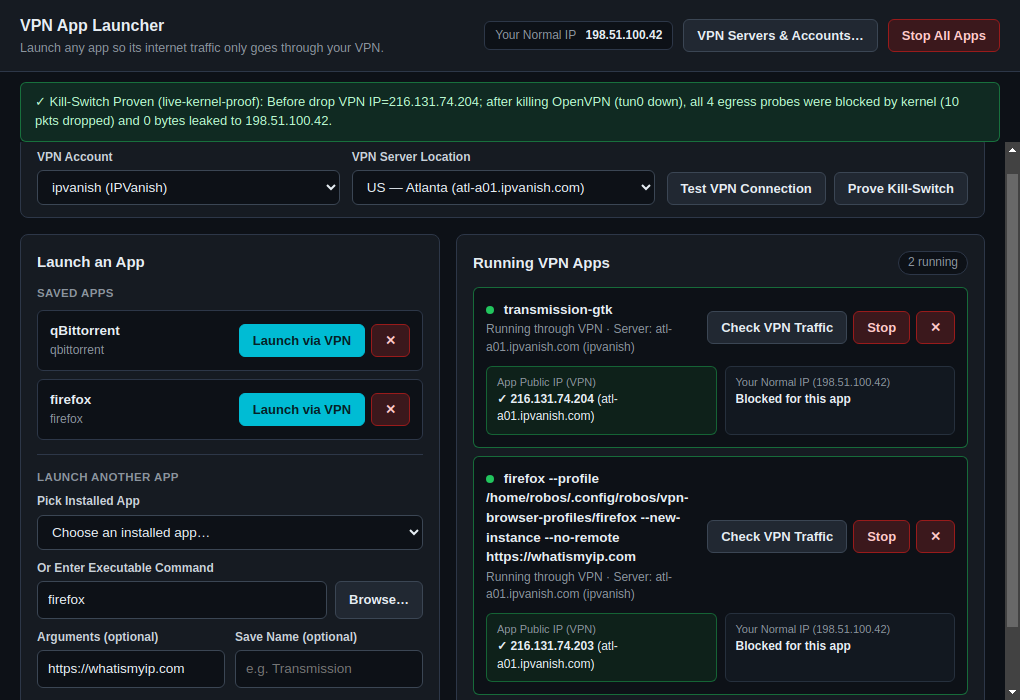
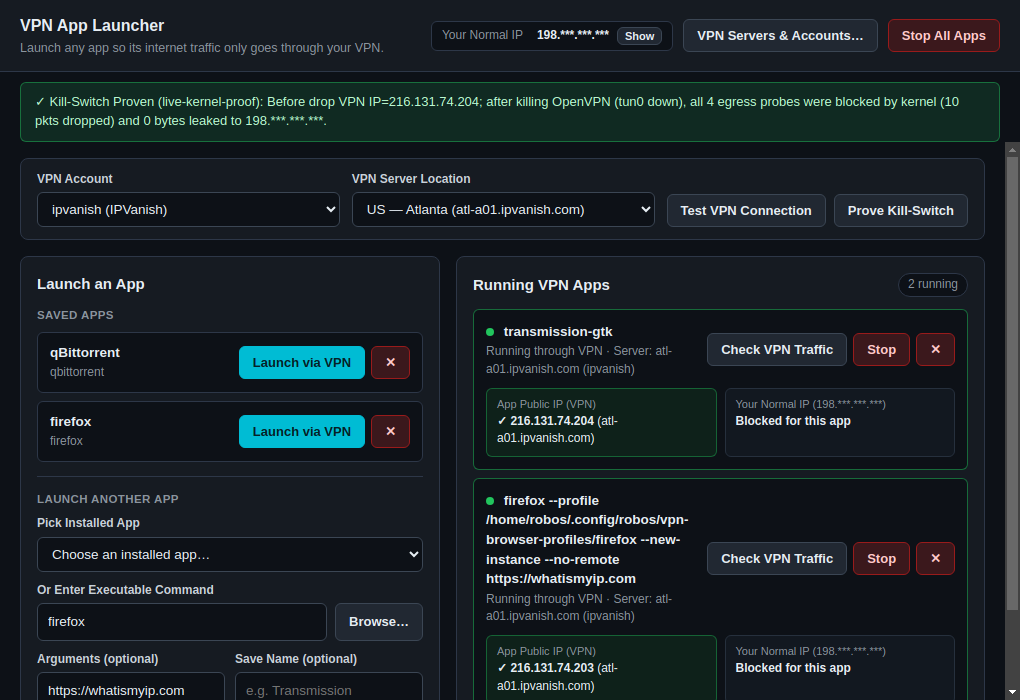
feat(vpn-sandbox): mask normal host IP as <first-octet>.***.***.*** by default with Show/Hide toggle

diff --git a/packages/vpn-sandbox/renderer/app.js b/packages/vpn-sandbox/renderer/app.js
@@ -7,7 +7,21 @@ let state = {
   savedApps: [],
   sessions: [],
   hostNet: { defaultIface: 'eth0', localIp: '—' },
+  showNormalIp: false,
 };
+
+function maskIp(ip) {
+  const s = String(ip || '').trim();
+  if (!s || s === '—') return '—';
+  const m = s.match(/^(\d+)\.\d+\.\d+\.\d+$/);
+  if (m) return `${m[1]}.***.***.***`;
+  if (s.includes(':')) return `${s.split(':')[0]}:****`;
+  return s;
+}
+
+function formatNormalIp(ip) {
+  return state.showNormalIp ? (ip || '—') : maskIp(ip);
+}
 
 function esc(s) {
   return String(s ?? '')
@@ -26,7 +40,11 @@ function showBanner(msg, isError = false) {
 }
 
 function renderHeaderAndSelectors() {
-  document.getElementById('normal-ip-value').textContent = state.hostNet?.localIp || '—';
+  document.getElementById('normal-ip-value').textContent = formatNormalIp(state.hostNet?.localIp || '—');
+  const toggleBtn = document.getElementById('btn-toggle-normal-ip');
+  if (toggleBtn) {
+    toggleBtn.textContent = state.showNormalIp ? 'Hide' : 'Show';
+  }
 
   const running = (state.sessions || []).filter(s => s.status === 'running');
   const stopped = (state.sessions || []).filter(s => s.status !== 'running');
@@ -159,7 +177,7 @@ function renderSessions() {
               <strong>✓ ${esc(s.vpnExitIp)}</strong> (${esc(s.serverHost)})
             </div>
             <div class="traffic-box">
-              <span class="traffic-label">Your Normal IP (${esc(s.hostNormalIp)})</span>
+              <span class="traffic-label">Your Normal IP (${esc(formatNormalIp(s.hostNormalIp))})</span>
               <strong>Blocked for this app</strong>
             </div>
           </div>
@@ -305,8 +323,17 @@ async function init() {
         return;
       }
       showBanner(
-        `✓ Kill-Switch Proven (${res.mode}): Before drop VPN IP=${res.vpnExitIpBeforeDrop}; after killing OpenVPN (tun0 down), all 4 egress probes were blocked by kernel (${res.droppedPacketsInKernel} pkts dropped) and 0 bytes leaked to ${res.normalPublicIp}.`
+        `✓ Kill-Switch Proven (${res.mode}): Before drop VPN IP=${res.vpnExitIpBeforeDrop}; after killing OpenVPN (tun0 down), all 4 egress probes were blocked by kernel (${res.droppedPacketsInKernel} pkts dropped) and 0 bytes leaked to ${formatNormalIp(res.normalPublicIp)}.`
       );
+    };
+  }
+
+  const toggleNormalIpBtn = document.getElementById('btn-toggle-normal-ip');
+  if (toggleNormalIpBtn) {
+    toggleNormalIpBtn.onclick = () => {
+      state.showNormalIp = !state.showNormalIp;
+      renderHeaderAndSelectors();
+      renderSessions();
     };
   }
 

diff --git a/packages/robos-lib/vpn-sandbox-engine.js b/packages/robos-lib/vpn-sandbox-engine.js
@@ -33,6 +33,15 @@ const crypto = require('node:crypto');
 const { spawn, spawnSync, execSync } = require('node:child_process');
 const { createOvpnManager, parseOvpnConfig } = require('./ovpn-providers');
 
+function maskIp(ip) {
+  const s = String(ip || '').trim();
+  if (!s || s === '—') return '—';
+  const m = s.match(/^(\d+)\.\d+\.\d+\.\d+$/);
+  if (m) return `${m[1]}.***.***.***`;
+  if (s.includes(':')) return `${s.split(':')[0]}:****`;
+  return s;
+}
+
 function resolveHostnameToIpv4(hostname, fallbackIp = null) {
   if (/^\d+\.\d+\.\d+\.\d+$/.test(hostname)) return Promise.resolve([hostname]);
   return new Promise(resolve => {
@@ -1217,7 +1226,7 @@ function createVpnSandboxEngine(options = {}) {
       accountLabel: session?.accountLabel || audit.accountLabel,
       checkedAt: new Date().toISOString(),
       summary: connectedViaVpn
-        ? `Verified: Traffic is exiting via VPN (${vpnIp} — ${serverHost}). Your normal IP (${normalIp}) is blocked for this app.`
+        ? `Verified: Traffic is exiting via VPN (${vpnIp} — ${serverHost}). Your normal IP (${maskIp(normalIp)}) is blocked for this app.`
         : `Could not verify VPN connection.`,
     };
   }

diff --git a/packages/vpn-sandbox/renderer/index.html b/packages/vpn-sandbox/renderer/index.html
@@ -14,9 +14,10 @@
         <p class="subtitle">Launch any app so its internet traffic only goes through your VPN.</p>
       </div>
       <div class="header-right">
-        <div class="ip-box">
+        <div class="ip-box" style="display:flex;align-items:center;gap:8px;">
           <span class="ip-label">Your Normal IP</span>
           <strong id="normal-ip-value">—</strong>
+          <button type="button" class="btn" id="btn-toggle-normal-ip" style="padding:2px 7px;font-size:11px;" title="Show or hide your full normal IP address">Show</button>
         </div>
         <button type="button" class="btn" id="btn-open-vpn-servers">VPN Servers &amp; Accounts…</button>
         <button type="button" class="btn btn-danger hidden" id="btn-stop-all">Stop All Apps</button>
